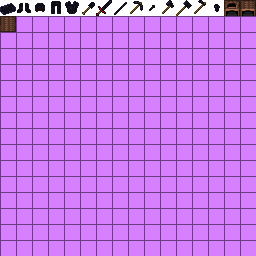
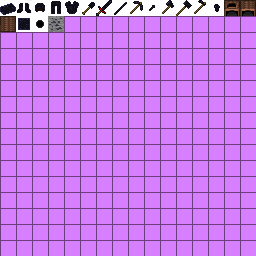
Texture and files
3 textures thanks to Malkierian
--------------------------------
fixed textures provided by Johulk
--------------------------------
added SoulEnchanter

Changed region(s): [[0.0625, 0.0625, 0.25, 0.125]]

diff --git a/src/common/advtech/ds/DarkenedSouls.java b/src/common/advtech/ds/DarkenedSouls.java
@@ -206,6 +206,7 @@ public class DarkenedSouls {
 		//Texture File
 		//MinecraftForgeClient.preloadTexture("/advtech/ds/resources/item.png");
 		MinecraftForgeClient.preloadTexture("/advtech/ds/resources/terrain.png");
+		MinecraftForgeClient.preloadTexture("/advtech/ds/resources/terrain2.png");
 		//World Generator Code
 		GameRegistry.registerWorldGenerator(new ShadowWorldGenerator());
 		//Dimensions
@@ -268,7 +269,7 @@ public class DarkenedSouls {
 		config.save();
 	}
 	public void addBlocks(){
-		oreObby = new ObbyOre(oreObbyID, 0).setHardness(50F).setResistance(2000.0F);
+		oreObby = new ObbyOre(oreObbyID, 19).setHardness(50F).setResistance(2000.0F);
 		GameRegistry.registerBlock(oreObby, "ObsidianOre");
 		LanguageRegistry.addName(oreObby, "Obsidian Ore");
 		
@@ -276,7 +277,7 @@ public class DarkenedSouls {
 		GameRegistry.registerBlock(streamFurnaceIdle,"Forge");
 		LanguageRegistry.addName(streamFurnaceIdle, "Forge");
 		
-		ShadeStone = new ShadeStone(ShadeStoneID, 0, Material.glass).setHardness(0.3F).setBlockName("Shade Stone");
+		ShadeStone = new ShadeStone(ShadeStoneID, 16, Material.glass).setHardness(0.3F).setBlockName("Shade Stone");
 		GameRegistry.registerBlock(ShadeStone, "ShadeStone");
 		LanguageRegistry.addName(ShadeStone, "Shade Stone");
 		
@@ -299,7 +300,7 @@ public class DarkenedSouls {
 		LanguageRegistry.addName(obbyIngot, "Obsidian Ingot");
 		obbyRivet = new ObbyRivet(obbyRivetID).setIconIndex(9).setItemName("Obsidian Rivers");
 		LanguageRegistry.addName(obbyRivet,"Obsidian Rivet");
-		obbyPlate = new ObbyPlate(obbyPlateID).setIconIndex(0).setItemName("Obsidian Platemetal");
+		obbyPlate = new ObbyPlate(obbyPlateID).setIconIndex(17).setItemName("Obsidian Platemetal");
 		LanguageRegistry.addName(obbyPlate,"Obsidian Plate");
 		obbyArm = new ObbyArm(obbyArmID).setIconIndex(13).setItemName("Obsidian Arm");
 		LanguageRegistry.addName(obbyArm, "Obsidian Plate Arm");
@@ -316,13 +317,13 @@ public class DarkenedSouls {
 		LanguageRegistry.addName(obbyShovel, "Shadow Digger");
 		obbyPickaxe = new ObbyPickaxe(obbyPickaxeID, obbyToolMaterial).setIconIndex(8).setItemName("Obsidian Pickaxe");
 		LanguageRegistry.addName(obbyPickaxe, "Shadow Breaker");		
-		smokeScreen = new SmokeScreen(smokeScreenID).setItemName("Smoke Screen");
+		smokeScreen = new SmokeScreen(smokeScreenID).setItemName("Smoke Screen").setIconIndex(18);
 		LanguageRegistry.addName(smokeScreen, "Insta-Poof");
-		GlowStick = new GlowStick(GlowStickID).setItemName("Glow Stick");
+		GlowStick = new GlowStick(GlowStickID).setItemName("Glow Stick").setIconIndex(1);
 		LanguageRegistry.addName(GlowStick,"Glow Stick");
-		ShadeStick = new ShadeStick(ShadeStickID).setItemName("Shade Stick");
+		ShadeStick = new ShadeStick(ShadeStickID).setItemName("Shade Stick").setIconIndex(17);
 		LanguageRegistry.addName(ShadeStick, "Shade Stick");
-		ShadowStoneDust = new ShadowStoneDust(ShadowStoneDustID).setItemName("Shadow Dust");
+		ShadowStoneDust = new ShadowStoneDust(ShadowStoneDustID).setItemName("Shadow Dust").setIconIndex(12);
 		LanguageRegistry.addName(ShadowStoneDust, "Shadow Dust");
 		SwordLight = new SwordLight(SwordLightID, lightToolMaterial).setItemName("Sword Light");
 		LanguageRegistry.addName(SwordLight,"Sword of Forever Light");

diff --git a/src/common/advtech/ds/block/SoulEnchanter.java b/src/common/advtech/ds/block/SoulEnchanter.java
@@ -1,0 +1,21 @@
+package advtech.ds.block;
+
+import net.minecraft.block.BlockContainer;
+import net.minecraft.block.material.Material;
+import net.minecraft.tileentity.TileEntity;
+import net.minecraft.world.World;
+
+public class SoulEnchanter extends BlockContainer {
+
+	protected SoulEnchanter(int par1, int par2, Material par3Material) {
+		super(par1, par2, par3Material);
+		// TODO Auto-generated constructor stub
+	}
+
+	@Override
+	public TileEntity createNewTileEntity(World var1) {
+		// TODO Auto-generated method stub
+		return null;
+	}
+
+}

diff --git a/src/common/advtech/ds/gui/GuiSoulEnchanter.java b/src/common/advtech/ds/gui/GuiSoulEnchanter.java
@@ -1,0 +1,20 @@
+package advtech.ds.gui;
+
+import net.minecraft.client.gui.inventory.GuiContainer;
+import net.minecraft.inventory.Container;
+
+public class GuiSoulEnchanter extends GuiContainer {
+
+	public GuiSoulEnchanter(Container par1Container) {
+		super(par1Container);
+		// TODO Auto-generated constructor stub
+	}
+
+	@Override
+	protected void drawGuiContainerBackgroundLayer(float var1, int var2,
+			int var3) {
+		// TODO Auto-generated method stub
+
+	}
+
+}

diff --git a/src/common/advtech/ds/block/ShadeStone.java b/src/common/advtech/ds/block/ShadeStone.java
@@ -23,6 +23,10 @@ public class ShadeStone extends BlockGlowStone {
     {
         return MathHelper.clamp_int(this.quantityDropped(par2Random) + par2Random.nextInt(par1 + 1), 1, 4);
     }
+    @Override
+	public String getTextureFile() {
+		return "/advtech/ds/resources/terrain2.png";
+	}
 
     /**
      * Returns the quantity of items to drop on block destruction.

diff --git a/src/common/advtech/ds/gui/SlotSoulEnchanter.java b/src/common/advtech/ds/gui/SlotSoulEnchanter.java
@@ -1,0 +1,14 @@
+package advtech.ds.gui;
+
+import net.minecraft.inventory.IInventory;
+import net.minecraft.inventory.Slot;
+
+public class SlotSoulEnchanter extends Slot {
+
+	public SlotSoulEnchanter(IInventory par1iInventory, int par2, int par3,
+			int par4) {
+		super(par1iInventory, par2, par3, par4);
+		// TODO Auto-generated constructor stub
+	}
+
+}

diff --git a/src/common/advtech/ds/block/ObbyOre.java b/src/common/advtech/ds/block/ObbyOre.java
@@ -8,8 +8,8 @@ import net.minecraft.creativetab.CreativeTabs;
 
 
 public class ObbyOre extends BlockOre {
-	public ObbyOre(int blockID,int par1) {
-		super(blockID, par1);
+	public ObbyOre(int blockID,int sprite) {
+		super(blockID, sprite);
 		setCreativeTab(CreativeTabs.tabBlock);
 		setStepSound(Block.soundStoneFootstep);
 		setHardness(50F);

diff --git a/src/common/advtech/ds/tile/ContainerSoulEnchanter.java b/src/common/advtech/ds/tile/ContainerSoulEnchanter.java
@@ -1,0 +1,14 @@
+package advtech.ds.tile;
+
+import net.minecraft.entity.player.EntityPlayer;
+import net.minecraft.inventory.Container;
+
+public class ContainerSoulEnchanter extends Container {
+
+	@Override
+	public boolean canInteractWith(EntityPlayer var1) {
+		// TODO Auto-generated method stub
+		return false;
+	}
+
+}

diff --git a/src/common/advtech/ds/item/shadow/ShadowStoneDust.java b/src/common/advtech/ds/item/shadow/ShadowStoneDust.java
@@ -20,4 +20,7 @@ public class ShadowStoneDust extends Item {
         this.potionEffectProbability = par4;
         return this;
     }
+	public String getTextureFile(){
+		return ("/advtech/ds/resources/terrain2.png");
+	}
 }

diff --git a/src/common/advtech/ds/tile/TileEntitySoulEnchanter.java b/src/common/advtech/ds/tile/TileEntitySoulEnchanter.java
@@ -1,0 +1,7 @@
+package advtech.ds.tile;
+
+import net.minecraft.tileentity.TileEntity;
+
+public class TileEntitySoulEnchanter extends TileEntity {
+
+}

diff --git a/src/common/advtech/ds/gui/SoulEnchanterRecipes.java b/src/common/advtech/ds/gui/SoulEnchanterRecipes.java
@@ -1,0 +1,5 @@
+package advtech.ds.gui;
+
+public class SoulEnchanterRecipes {
+
+}
